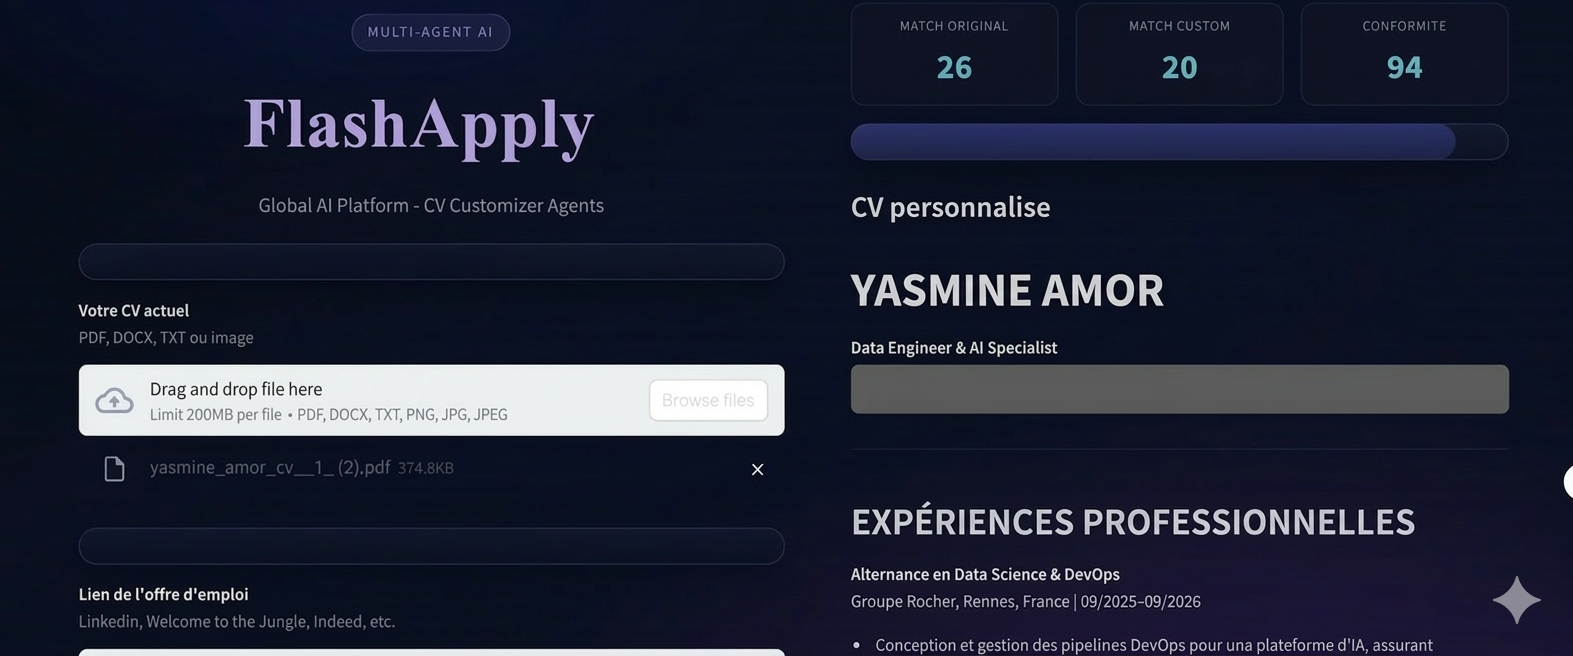
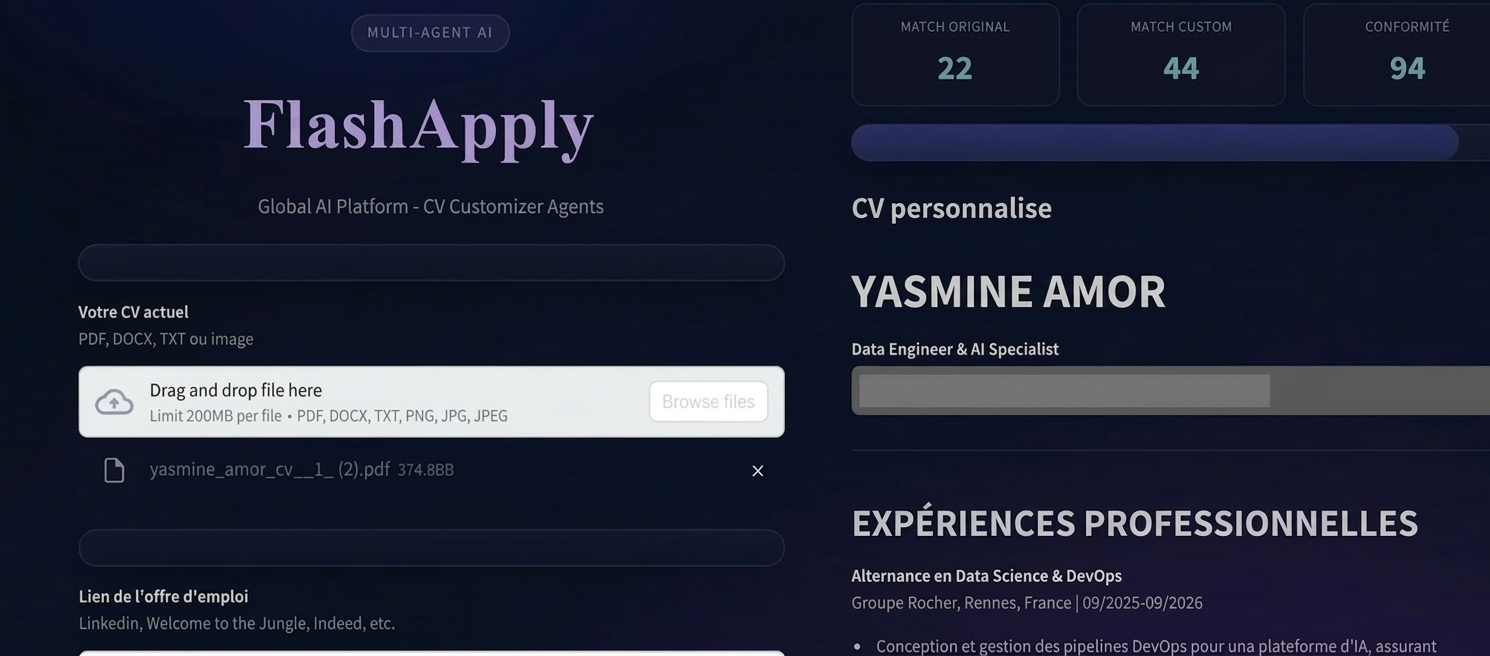
adding image with new score

diff --git a/app/agents/cv_generator_agent.py b/app/agents/cv_generator_agent.py
@@ -25,13 +25,25 @@ def _fallback_generate(cv_text: str, matching: dict, country_rules: dict) -> str
     return "\n".join(lines).strip()
 
 
-def generate_personalized_cv(cv_text: str, offer_text: str, country: str, country_rules: dict, matching: dict) -> str:
-    llm = get_llm()
-    if llm is None:
-        return _fallback_generate(cv_text, matching, country_rules)
+def _build_generation_prompt(
+    cv_text: str,
+    offer_text: str,
+    country: str,
+    country_rules: dict,
+    matching: dict,
+) -> str:
+    present = matching.get("keywords_present", [])[:20]
+    missing = matching.get("keywords_missing", [])[:15]
+    target_keywords = present + [kw for kw in missing if kw not in present]
 
-    prompt = f"""
+    return f"""
 Tu es un agent de personnalisation de CV.
+
+Objectif principal:
+- ameliorer le score de matching final entre le CV et l'offre;
+- conserver les mots-cles deja presents dans le CV source;
+- reintegrer de facon naturelle les mots-cles importants de l'offre lorsqu'ils correspondent reellement au profil;
+- ne jamais inventer de faits ou de competences.
 
 Contexte:
 - Pays cible: {country}
@@ -40,8 +52,9 @@ Contexte:
 - Pattern design: {country_rules.get("layout", {})}
 - Ton attendu: {country_rules.get("tone", "")}
 - Score actuel CV vs Offre: {matching.get("match_score")}
-- Mots cles presents: {matching.get("keywords_present", [])}
-- Mots cles manquants: {matching.get("keywords_missing", [])}
+- Mots cles deja presents a conserver absolument: {present}
+- Mots cles manquants a renforcer si justifiables: {missing}
+- Liste prioritaire de mots cles a faire apparaitre clairement: {target_keywords}
 
 CV source:
 {cv_text}
@@ -52,14 +65,75 @@ Offre:
 Regles strictes:
 1. N'invente aucun fait, date, experience, diplome, entreprise ou competence.
 2. Reorganise et reformule uniquement les informations du CV source.
-3. Conserve le meme pattern d'ecriture du CV source (ton, niveau de formalite, style des phrases).
-4. Conserve le meme pattern de design du CV source (structure, sections, hierarchie des titres, style des listes).
-5. Optimise le CV pour l'offre sans casser le style d'origine.
-6. Utilise du markdown propre:
+3. Conserve le meme pattern d'ecriture du CV source autant que possible.
+4. Conserve une structure propre et compatible avec les regles pays.
+5. Preserve textuellement les mots-cles deja presents dans le CV source quand ils sont pertinents.
+6. Utilise de preference les termes exacts de l'offre plutot que des synonymes si ces termes correspondent reellement au profil.
+7. Fais apparaitre les mots-cles utiles dans les sections visibles: Profil, Competences, Experiences, Projets.
+8. N'ajoute jamais un mot-cle si cela rend le contenu faux.
+9. Utilise du markdown propre:
    - Titres avec # et ##.
    - Gras avec **texte** uniquement quand pertinent.
    - Listes avec "- ".
-7. Retourne uniquement du markdown.
+10. Retourne uniquement du markdown.
+"""
+
+
+def generate_personalized_cv(cv_text: str, offer_text: str, country: str, country_rules: dict, matching: dict) -> str:
+    llm = get_llm()
+    if llm is None:
+        return _fallback_generate(cv_text, matching, country_rules)
+
+    prompt = _build_generation_prompt(
+        cv_text=cv_text,
+        offer_text=offer_text,
+        country=country,
+        country_rules=country_rules,
+        matching=matching,
+    )
+    response = llm.invoke(prompt)
+    return response.content.strip()
+
+
+def optimize_personalized_cv(
+    personalized_cv: str,
+    offer_text: str,
+    country: str,
+    country_rules: dict,
+    matching: dict,
+) -> str:
+    llm = get_llm()
+    if llm is None:
+        return personalized_cv
+
+    present = matching.get("keywords_present", [])[:20]
+    missing = matching.get("keywords_missing", [])[:15]
+    prompt = f"""
+Tu es un agent de correction de CV ciblee sur le matching.
+
+Ta mission est d'ameliorer le CV personnalise ci-dessous pour augmenter le score de matching lexical avec l'offre.
+
+Contexte:
+- Pays cible: {country}
+- Score actuel du CV personnalise: {matching.get("match_score")}
+- Mots cles deja presents: {present}
+- Mots cles encore manquants a integrer si et seulement si ils sont justifiables par le contenu: {missing}
+- Regles sections: {country_rules.get("section_order", [])}
+- Sections interdites: {country_rules.get("forbidden_fields", [])}
+
+CV personnalise actuel:
+{personalized_cv}
+
+Offre:
+{offer_text}
+
+Regles strictes:
+1. N'invente aucun fait ou competence.
+2. Conserve la structure generale du CV personnalise actuel.
+3. Ajoute ou rends plus visibles les mots-cles manquants lorsqu'ils correspondent vraiment au profil deja decrit.
+4. Ne supprime pas les mots-cles deja presents.
+5. Utilise les termes exacts de l'offre plutot que des synonymes quand c'est possible.
+6. Retourne uniquement le CV final en markdown.
 """
     response = llm.invoke(prompt)
     return response.content.strip()

diff --git a/app/agents/pipeline_agent.py b/app/agents/pipeline_agent.py
@@ -1,4 +1,4 @@
-from app.agents.cv_generator_agent import generate_personalized_cv
+from app.agents.cv_generator_agent import generate_personalized_cv, optimize_personalized_cv
 from app.agents.matching_agent import compute_matching
 from app.extractors.cv_extractor import extract_cv_text
 from app.extractors.job_offer_extractor import fetch_job_offer
@@ -50,6 +50,22 @@ def run_pipeline(cv_file_path: str, offer_url: str, country: str) -> dict:
         matching=original_matching,
     )
     personalized_matching = compute_matching(personalized_cv, offer_text)
+
+    # If the generated CV underperforms the source CV lexically, run one targeted pass
+    # to make required offer keywords more explicit without inventing content.
+    if personalized_matching["match_score"] < original_matching["match_score"]:
+        optimized_cv = optimize_personalized_cv(
+            personalized_cv=personalized_cv,
+            offer_text=offer_text,
+            country=country,
+            country_rules=country_rules,
+            matching=personalized_matching,
+        )
+        optimized_matching = compute_matching(optimized_cv, offer_text)
+        if optimized_matching["match_score"] >= personalized_matching["match_score"]:
+            personalized_cv = optimized_cv
+            personalized_matching = optimized_matching
+
     compliance = compute_country_compliance(personalized_cv, country_rules)
 
     return {
